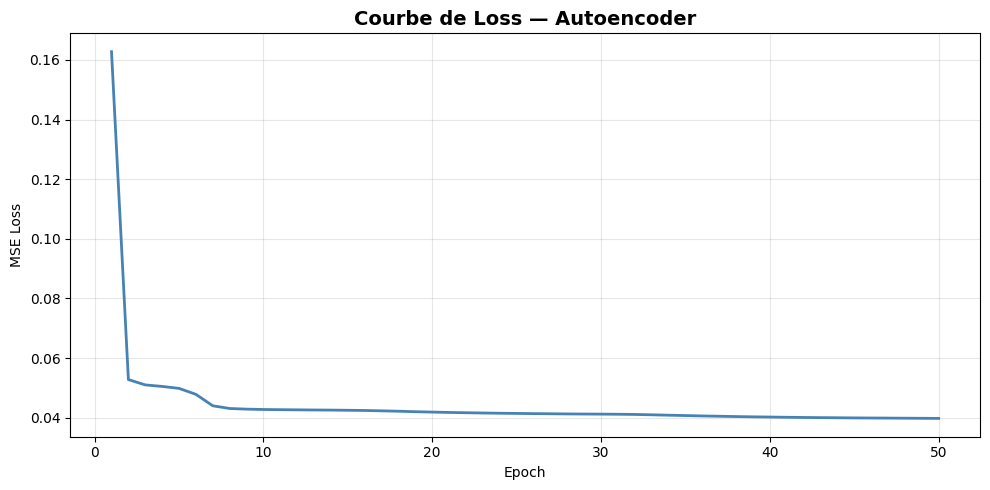
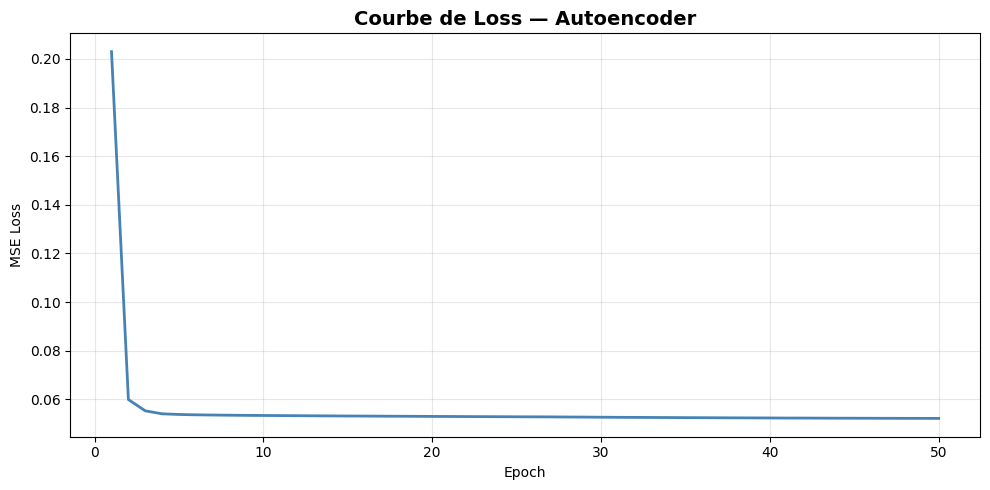
Update epochs and seed for better results + tests

diff --git a/utils/predictor.py b/utils/predictor.py
@@ -52,7 +52,6 @@ def predict(df: pd.DataFrame):
     
     # Prétraitement
     df_proc = df[features].copy().astype(float)
-    df_proc.columns = range(len(features))
     for col in skewed:
         if col in df_proc.columns:
             df_proc[col] = np.log1p(df_proc[col])